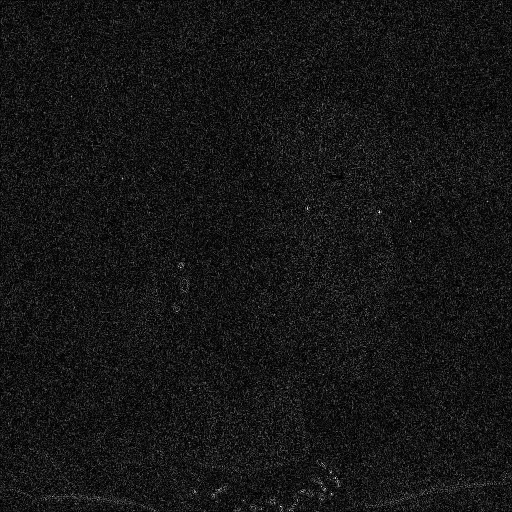
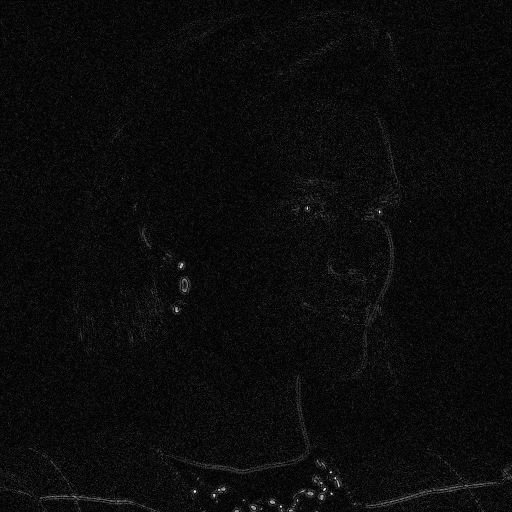
separate filter + combine

diff --git a/lesson7/lesson7.3.py b/lesson7/lesson7.3.py
@@ -13,13 +13,17 @@ misc.imsave("filtered_lady_start.png",im)
 image_gr = im.convert("L")
 arr = np.asarray(image_gr)
 
+filtr = np.genfromtxt('filter2.csv',delimiter=",")
+grad = signal.convolve2d(arr,filtr, mode='same', boundary='symm')
+misc.imsave("filtered_lady_2.png",np.absolute(grad))
+
 filtr = np.genfromtxt('filter1.csv',delimiter=",")
 grad = signal.convolve2d(arr,filtr, mode='same', boundary='symm')
 misc.imsave("filtered_lady_1.png",np.absolute(grad))
 
 filtr = np.genfromtxt('filter2.csv',delimiter=",")
 grad = signal.convolve2d(grad,filtr, mode='same', boundary='symm')
-misc.imsave("filtered_lady_2.png",np.absolute(grad))
+misc.imsave("filtered_lady_3.png",np.absolute(grad))
 
 #fig, aux = plt.subplots(figsize=(512,512)) 
 #fig, aux = plt.subplots() 
